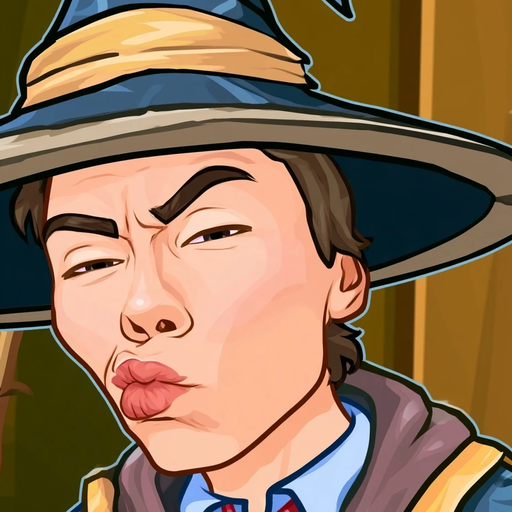
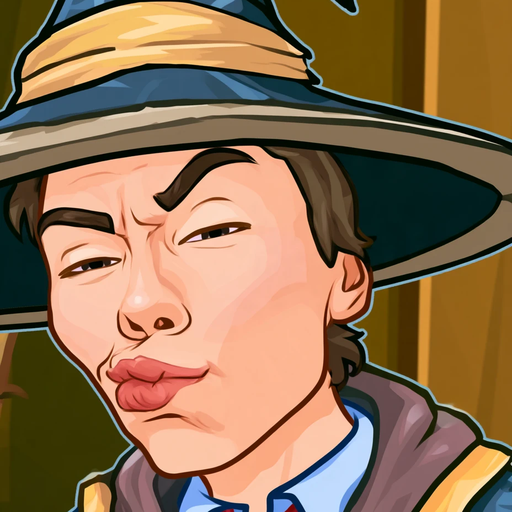
Wiz-Maxxing.exe launcher, Start menu entries; new face on the README
- Wiz-Maxxing.ahk (built to Wiz-Maxxing.exe with the wizard icon) starts
  AutoFarmer\Autofarmer.exe, else the script.
- Setup.exe adds a Start menu folder "Wiz-Maxxing" (the bot, Setup, Stats
  reader, Quest walker only) and a "Wiz-Maxxing" desktop shortcut to the
  launcher (replacing an older "Wizard101 bot" one); Start the bot uses it.
- README picture and social preview from the new face.

diff --git a/README.md b/README.md
@@ -10,9 +10,10 @@ AutoHotkey bots for Wizard101: **AutoFarmer** (battles, quest walking, card lear
 1. Download the newest **Wiz-Maxxing-vX.Y.zip** from the [Releases](../../releases) page and unzip it anywhere.
 2. Double-click **Setup.exe**. It shows what's there already and installs what's missing:
    Python 3 and its numpy and Pillow packages (for the card matching), unblocks the downloaded files,
-   and puts a "Wizard101 bot" shortcut on the desktop. AutoHotkey v1.1 and Git are optional (only to
-   change the bot or get updates with `git pull`).
-3. Start the bot with the shortcut (or `AutoFarmer\Autofarmer.exe`).
+   and adds **Wiz-Maxxing** to the Start menu and the desktop. AutoHotkey v1.1 and Git are optional (only
+   to change the bot or get updates with `git pull`).
+3. Start the bot from the Start menu (search "Wiz-Maxxing") or with **Wiz-Maxxing.exe** in the folder.
+   Keep the folder where it is - the shortcuts point into it.
    If Windows says "Windows protected your PC", click **More info**, then **Run anyway**.
 
 ## Change the bot
